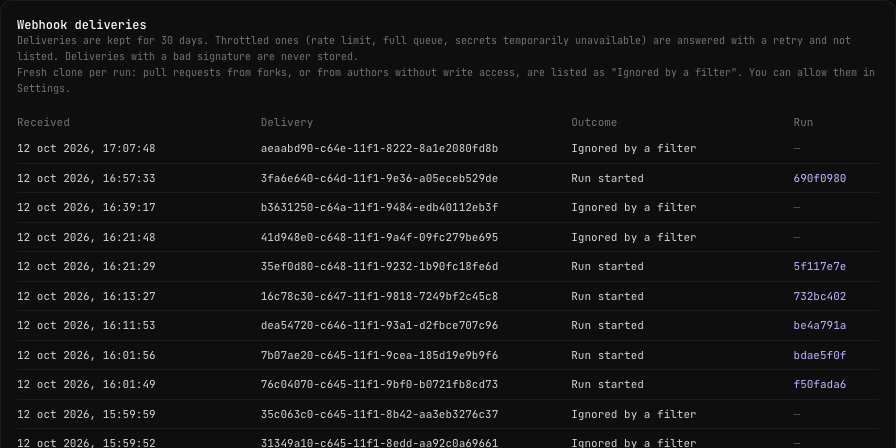
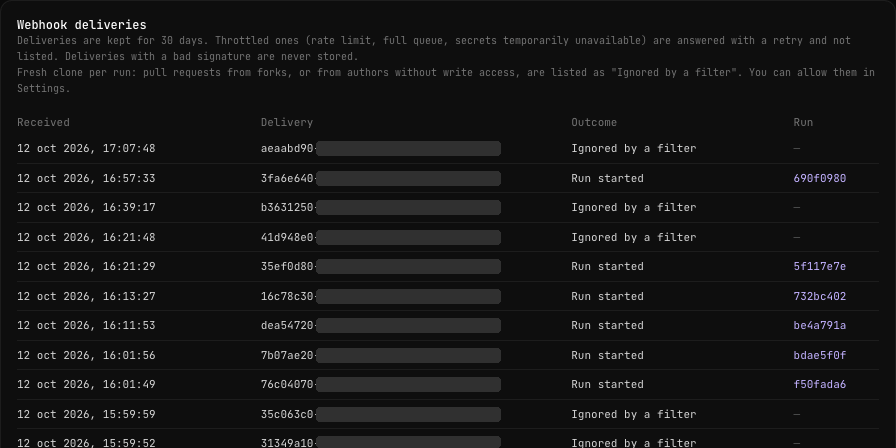
docs(pr-gatekeeper): review fixes
- Deliveries capture: GitHub delivery ids redacted after the first 8 chars.
- Proposal capture now from the same run as the summary and output.
- Secrets step: save the tokens under explicit names, explain the three
  fields of a secret row, the caption says the capture uses one token.
- Running workspace and Software panel in the prerequisites; repository
  access and expiration for the fine-grained token.
- Troubleshooting: Not accepted outcome, GitHub 404/415, clone failures
  happen during the checkout.
- Accuracy: the agent can comment, review and label; comment wording varies;
  improvements land in Suggestions.
- Test: clearer failure for a capture missing from the markup; note that
  pixels need a human privacy check.

Changed region(s): [[0.3438, 0.3125, 0.5625, 0.8125], [0.3438, 0.9062, 0.5625, 1.0], [0.3438, 0.8438, 0.5625, 0.875]]

diff --git a/src/tests/layouts/prGatekeeperDocs.test.ts b/src/tests/layouts/prGatekeeperDocs.test.ts
@@ -62,7 +62,12 @@ const PORTAL_LABELS = [
 ];
 
 const INTERNAL = /firecracker|micro-?vms?\b|\bvm\b|\bkvm\b|kubernetes|\bk8s\b|\br2\b|nan-vmd|systemd|litellm|cgroup|\bvault\b|transit|dynamicuser|ephemeral|ef[ií]mer/i;
-/** Never published: UUIDs, private addresses, webhook paths, tokens, the owner's identity. */
+/**
+ * Never published: UUIDs, private addresses, webhook paths, tokens, the owner's identity.
+ * This guards the TEXT only (prose, alt, captions): the pixels of a capture cannot be
+ * scanned here, so every new or replaced capture needs a human check for the same things
+ * (the delivery ids, run ids in paths, webhook URL and secret hints are redacted).
+ */
 const PRIVATE = /[0-9a-f]{8}-[0-9a-f]{4}-[0-9a-f]{4}|\b10\.\d{1,3}\.\d{1,3}\.\d{1,3}\b|\b192\.168\.|nan_whk_[A-Za-z0-9_-]{4,}|whsec_[A-Za-z0-9]{4,}|ghp_[A-Za-z0-9]|github_pat_[A-Za-z0-9]|nan_pat_[A-Za-z0-9]|sk-[A-Za-z0-9]{8,}|@helmcode\.com|cristian|barckcode/i;
 
 interface Shot {
@@ -163,10 +168,11 @@ describe.each(Object.entries(pages))('PR gatekeeper guide (%s)', (_locale, page)
   });
 
   test.each(SHOTS)('capture %s: file exists and its size matches the markup', (name) => {
-    const shot = shots.find((s) => s.src === `/docs/pr-gatekeeper/${name}.webp`)!;
+    const shot = shots.find((s) => s.src === `/docs/pr-gatekeeper/${name}.webp`);
+    expect(shot, `${name} is not in the markup`).toBeDefined();
     const file = resolve(pub, `docs/pr-gatekeeper/${name}.webp`);
     expect(existsSync(file)).toBe(true);
-    expect(webpSize(file)).toEqual({ width: shot.width, height: shot.height });
+    expect(webpSize(file)).toEqual({ width: shot!.width, height: shot!.height });
   });
 
   test('every link to a docs page and anchor resolves, in the same locale', () => {
